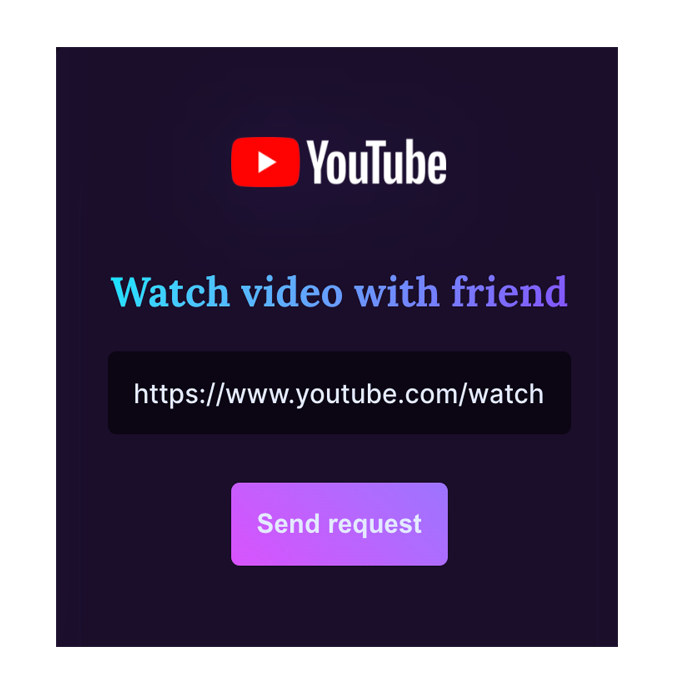
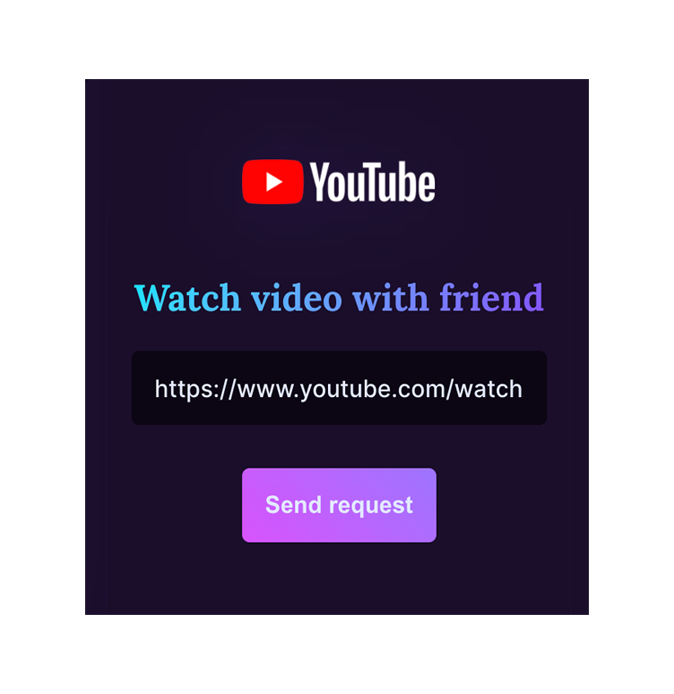
Fix hiw screen

diff --git a/components/Landing/HowItWorks.tsx b/components/Landing/HowItWorks.tsx
@@ -109,16 +109,24 @@ const Tagline = styled.span`
   font-weight: 600;
   color: var(--textColor);
   margin-bottom: 8rem;
+
+  @media (min-width: 1800px) {
+    margin-bottom: 12rem;
+  }
 `
 
 const StepsList = styled.div`
   display: grid;
   grid-template-columns: repeat(3, minmax(300px, 1fr));
-  grid-gap: 4rem 6rem;
+  grid-gap: 6rem 8rem;
   justify-content: center;
 
   @media (max-width: 600px) {
     grid-template-columns: 1fr;
+  }
+
+  @media (min-width: 1800px) {
+    grid-gap: 12rem 6rem;
   }
 `
 
@@ -128,11 +136,16 @@ const StepsItemImgWrapper = styled.div`
   height: 35rem;
   display: flex;
   align-items: center;
-  margin-bottom: 2rem;
+  /* margin-bottom: 0.5rem; */
+
+  @media (min-width: 1800px) {
+    margin-bottom: 3rem;
+  }
 `
 
 const StepsItemImg = styled.img`
   max-width: 100%;
+  max-height: 400px;
 `
 
 const StepsItemHeading = styled.div`
@@ -149,7 +162,7 @@ const StepsItemOrder = styled.h5`
 
 const StepsItemTitle = styled.h4`
   font-size: 3rem;
-  margin-bottom: 1rem;
+  margin-bottom: 1.7rem;
   color: var(--primaryColorLight);
 `
 

diff --git a/styles/GlobalStyles.ts b/styles/GlobalStyles.ts
@@ -55,7 +55,7 @@ body {
   min-height: 100%;
   font-family: var(--systemFont);
   color: #555;
-  background: rgb(12, 6, 19);
+  background: #0e0718;
   -webkit-font-smoothing: antialiased;
   -moz-osx-font-smoothing: grayscale;
   -webkit-transform: translateZ(0);
